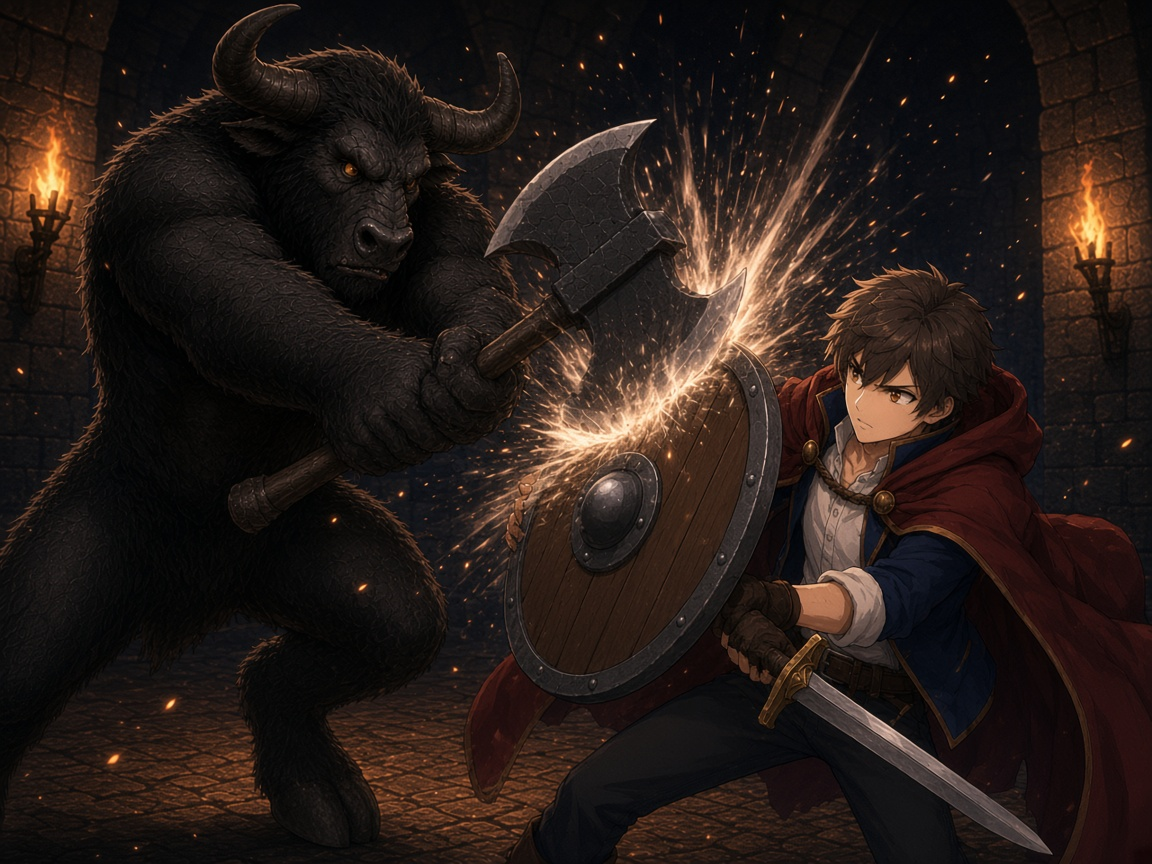
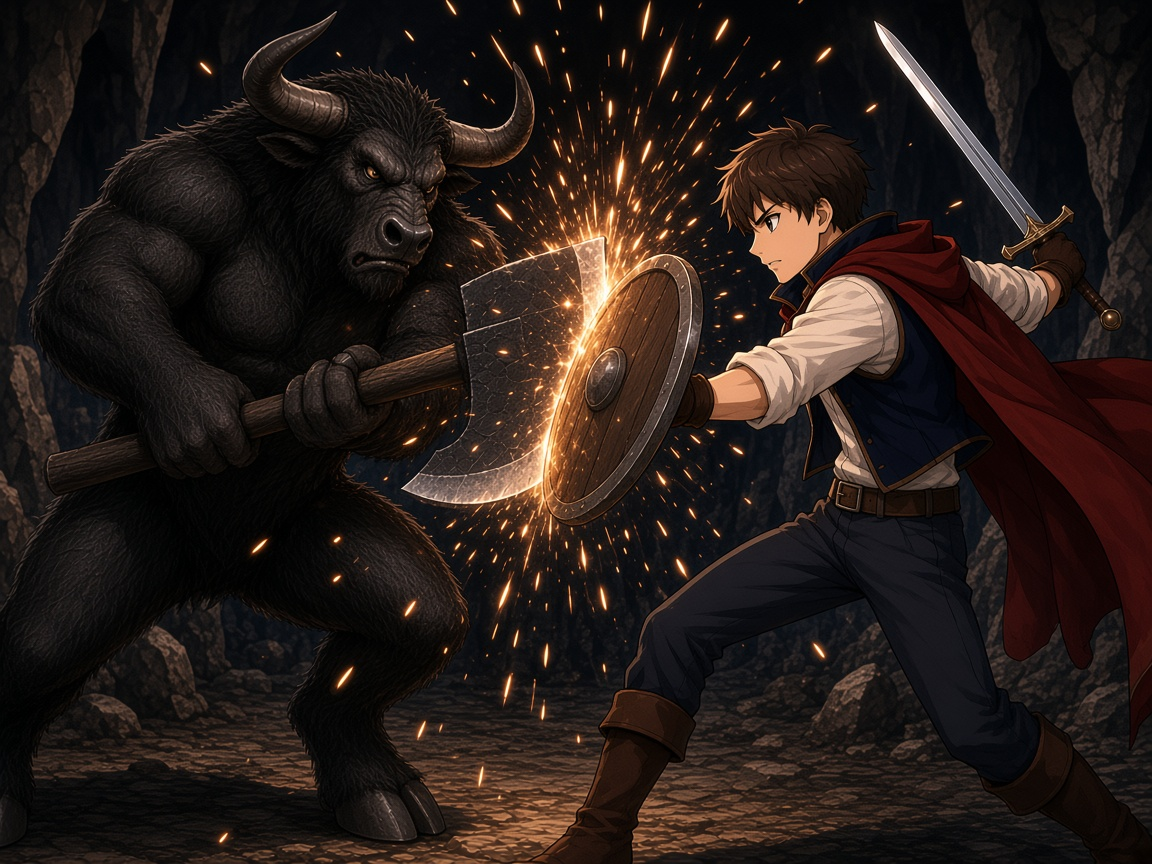
画像生成リストのカード絵をカードリストに入れる。
男女の攻撃と防御、致命の一撃、集中、パリィを、選んだ戦士の絵として出す。

diff --git a/index.html b/index.html
@@ -5117,11 +5117,11 @@
       ["パリィ", 1],
     ];
     const CARD_ART = {
-      アタック: "card-attack.jpg?v=3",
-      チャージアタック: "card-charge.jpg?v=3",
-      ブロック: "card-block.jpg?v=2",
-      集中: "card-focus.jpg?v=3",
-      パリィ: "card-parry.jpg?v=5",
+      アタック: "card-attack-m.jpg?v=1",
+      チャージアタック: "card-charge-m.jpg?v=1",
+      ブロック: "card-block-m.jpg?v=1",
+      集中: "card-focus.jpg?v=4",
+      パリィ: "card-parry.jpg?v=6",
       捨て身の一撃: "card-reckless.jpg?v=1",
       怒り: "card-rage.jpg?v=1",
       パリィスラッシュ: "card-parry-slash.jpg?v=1",
@@ -5130,15 +5130,15 @@
       ジャストミート: "card-just-meet.jpg?v=1",
       余裕の構え: "card-poise.jpg?v=2",
       ガードブレイク: "card-guard-break.jpg?v=1",
-      致命の一撃: "card-fatal.jpg?v=1",
+      致命の一撃: "card-fatal.jpg?v=2",
       シールドアタック: "card-shield-bash.jpg?v=2",
       頭突き: "card-headbutt.jpg?v=1",
       キック: "card-kick.jpg?v=1",
       ツインアタック: "card-twin.jpg?v=1",
-      ビッグアタック: "card-big-attack.jpg?v=2",
+      ビッグアタック: "card-big-attack-m.jpg?v=1",
       瞑想: "card-meditate.jpg?v=1",
-      ハードブロック: "card-hard-block.jpg?v=2",
-      ビッグブロック: "card-big-block.jpg?v=2",
+      ハードブロック: "card-hard-block-m.jpg?v=1",
+      ビッグブロック: "card-big-block-m.jpg?v=1",
       アタックアタック: "card-attack-attack.jpg?v=1",
       反撃の一手: "card-counter.jpg?v=1",
       応急手当: "card-first-aid.jpg?v=1",
@@ -5152,6 +5152,19 @@
       ファイアソード: "card-firesword.jpg?v=1",
       ファイアパラダイス: "card-fireparadise.jpg?v=1",
     };
+    const CARD_ART_CAST = {
+      アタック: ["card-attack-m.jpg?v=1", "card-attack-f.jpg?v=1"],
+      チャージアタック: ["card-charge-m.jpg?v=1", "card-charge-f.jpg?v=1"],
+      ビッグアタック: ["card-big-attack-m.jpg?v=1", "card-big-attack-f.jpg?v=1"],
+      ブロック: ["card-block-m.jpg?v=1", "card-block-f.jpg?v=1"],
+      ハードブロック: ["card-hard-block-m.jpg?v=1", "card-hard-block-f.jpg?v=1"],
+      ビッグブロック: ["card-big-block-m.jpg?v=1", "card-big-block-f.jpg?v=1"],
+    };
+    function cardArtSrc(name) {
+      const pair = CARD_ART_CAST[name];
+      if (pair) return heroCast === "女の戦士" ? pair[1] : pair[0];
+      return CARD_ART[name] || "";
+    }
     const CARDS = {
       アタック: { cost: 1, text: "3ダメージ", damage: 3 },
       チャージアタック: { cost: 2, text: "7ダメージ", damage: 7 },
@@ -8706,8 +8719,29 @@
       return `<aside class="art-zoom-side" aria-label="${esc(title)}の拡大"><h3>${esc(title)}</h3>${body}<button type="button" data-action="close-art-zoom">閉じる</button></aside>`;
     }
 
+    const MADE_CARD_ARTS = [
+      ["made-attack-m", "アタック（男）", "card-attack-m.jpg?v=1"],
+      ["made-attack-f", "アタック（女）", "card-attack-f.jpg?v=1"],
+      ["made-charge-m", "チャージアタック（男）", "card-charge-m.jpg?v=1"],
+      ["made-charge-f", "チャージアタック（女）", "card-charge-f.jpg?v=1"],
+      ["made-big-attack-m", "ビッグアタック（男）", "card-big-attack-m.jpg?v=1"],
+      ["made-big-attack-f", "ビッグアタック（女）", "card-big-attack-f.jpg?v=1"],
+      ["made-block-m", "ブロック（男）", "card-block-m.jpg?v=1"],
+      ["made-block-f", "ブロック（女）", "card-block-f.jpg?v=1"],
+      ["made-hard-block-m", "ハードブロック（男）", "card-hard-block-m.jpg?v=1"],
+      ["made-hard-block-f", "ハードブロック（女）", "card-hard-block-f.jpg?v=1"],
+      ["made-big-block-m", "ビッグブロック（男）", "card-big-block-m.jpg?v=1"],
+      ["made-big-block-f", "ビッグブロック（女）", "card-big-block-f.jpg?v=1"],
+      ["made-fatal", "致命の一撃", "card-fatal.jpg?v=2"],
+      ["made-focus", "集中", "card-focus.jpg?v=4"],
+      ["made-parry", "パリィ", "card-parry.jpg?v=6"],
+    ];
     function artZoomSide(name) {
       if (!name) return "";
+      const made = MADE_CARD_ARTS.find((item) => item[0] === name);
+      if (made) {
+        return zoomSidePanel(made[1], `<img class="art-zoom-img" src="${made[2]}" alt="${esc(made[1])}">`);
+      }
       const masterZoom = {
         "card-rarity-sample-plain": { label: "見本 ★ 装飾なし", src: "card-style-master.png?v=6", alt: "見本 ★。装飾なしの仮のカード。攻撃（赤）" },
         "card-rarity-sample-silver": { label: "見本 ★★ 銀の枠", src: "card-rarity-sample-silver.png?v=1", alt: "見本 ★★。カードを囲む銀の枠と、四隅の銀の唐草。仮のカード" },
@@ -8735,7 +8769,7 @@
         return zoomSidePanel(masterZoom.label, `<img class="art-zoom-img" src="${masterZoom.src}" alt="${esc(masterZoom.alt)}">`);
       }
       const card = albumCatalog().find((item) => item.name === name) || { name, ...(CARDS[name] || WARRIOR[name] || COMMON[name] || {}) };
-      const src = CARD_ART[name] || "";
+      const src = cardArtSrc(name);
       const body = src
         ? `<img class="art-zoom-img" src="${esc(src)}" alt="${esc(name)}の絵柄">`
         : `<div class="art-zoom-card"><div class="card preview ${cardKind(card)}">${cardFace(card, false)}</div></div>`;
@@ -8926,6 +8960,8 @@
             </div>
             <h4>色ごとの空の枠</h4>
             <div class="ref-grid blank-grid">${blankCardSheet()}</div>
+            <h4>できたカード絵</h4>
+            <div class="ref-grid blank-grid">${madeCardSheet()}</div>
             <div class="album-tabs" role="tablist">${tabs}</div>
             <p class="album-meta">全${catalog.length}種　表示${shown.length}　カードを押すと右に絵柄を拡大　★${meta.stars}</p>
             <section class="deck-group"><h3>${esc(label)} ${shown.length}</h3><div class="deck-cards">${faces || `<p class="deck-empty">なし</p>`}</div></section>
@@ -9232,6 +9268,12 @@
       { kind: "foe", label: "敵のカード（紫）★★", zoom: "card-style-master-foe-silver", src: "card-style-master-foe-silver.png?v=7", alt: "敵のカード（紫）★★。銀の唐草。仮のカード" },
       { kind: "foe", label: "敵のカード（紫）★★★", zoom: "card-style-master-foe-gold", src: "card-style-master-foe-gold.png?v=7", alt: "敵のカード（紫）★★★。金の唐草。仮のカード" },
     ];
+    function madeCardSheet() {
+      return MADE_CARD_ARTS.map((item) => {
+        const on = albumZoom === item[0];
+        return `<figure class="${on ? "on" : ""}"><button type="button" class="sheet-zoom-btn" data-art-zoom="${item[0]}" aria-label="${esc(item[1])}の絵を拡大" aria-pressed="${on ? "true" : "false"}"><img class="style-master" src="${item[2]}" alt="${esc(item[1])}"></button><figcaption>${esc(item[1])}</figcaption></figure>`;
+      }).join("");
+    }
     function blankCardSheet() {
       return BLANK_FRAMES.map((frame) => {
         const on = albumZoom === frame.zoom;
@@ -9385,7 +9427,7 @@
       const extra = card.expose || card.fullBonus || card.safeBonus || card.kick || card.headbutt || card.finisher || card.poise || card.guardBreak || card.hits || card.instant || card.quick || card.burn || card.press || card.redTimes || card.counter || (card.parry && card.damage) || (live && dmgLabel && !card.damage);
       const effects = icons && extra ? `${icons}<span class="fx note">${noteText}</span>` : icons || `<span class="fx note">${noteText}</span>`;
       const stars = card.stars || 1;
-      const picture = CARD_ART[card.name] ? `<img src="${CARD_ART[card.name]}" alt="">` : "";
+      const picture = cardArtSrc(card.name) ? `<img src="${cardArtSrc(card.name)}" alt="">` : "";
       const rank = stars >= 3 ? "r3" : stars === 2 ? "r2" : "r1";
       const kind = foe ? "foe" : cardKind(card);
       const genre = `<span class="genre" aria-label="ジャンル ${genreName(kind)}">${genreName(kind)}</span>`;
